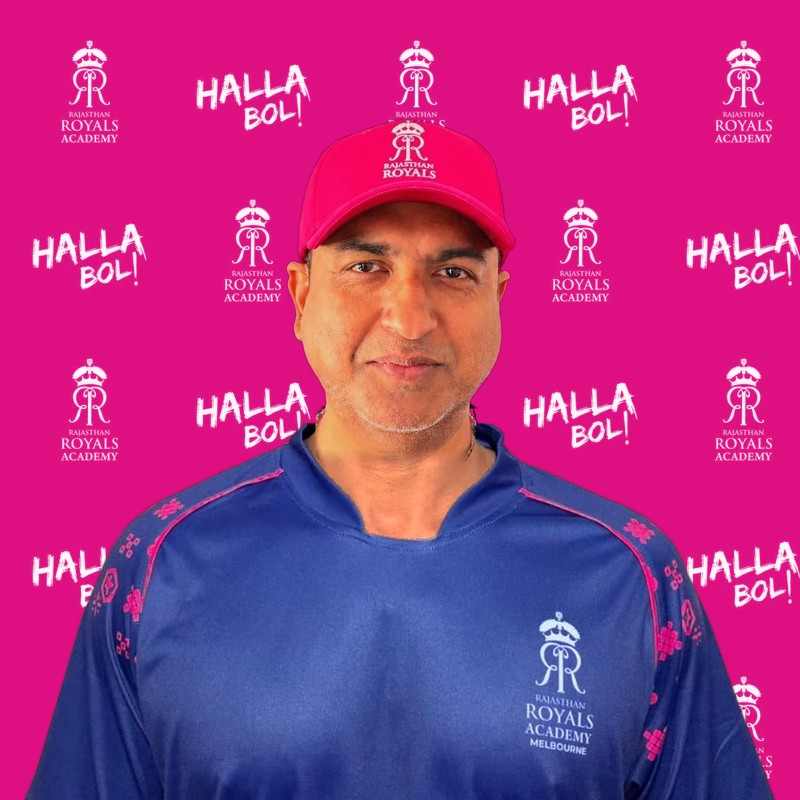
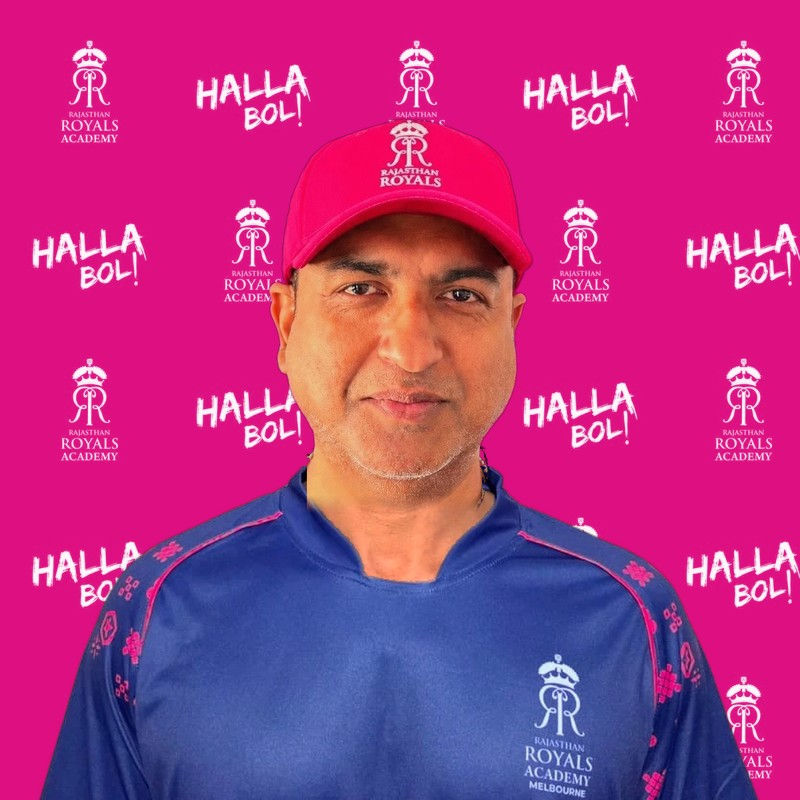
[Coaches] Sid sized to match the other coach photos; Sid on the home page team row
- Sid's photo re-sized so his head and shoulders match the other coaches
  (head width and height measured against all of them).
- Home page 'Our coaching team': Sid added after Alex Thornhill; Mihiraj uses
  the matching HALLA BOL! photo so the row is uniform.

Claude-Session: https://claude.ai/code/session_01LFFLZ7nuYUnqb3vFVCGv7a

diff --git a/src/components/home-v2/homeV2Data.js b/src/components/home-v2/homeV2Data.js
@@ -57,9 +57,10 @@ export const LEADERS = [
 // them; no photo yet = initials. Each links to /coaches.
 export const TEAM = [
     { name: 'Alex Thornhill', line: 'Cranbourne North · South-East Manager', img: '/assets/coaches/alex-thornhill.jpg' },
+    { name: 'Siddhartha Banerjee', line: 'Pace bowling and talent development', img: '/assets/coaches/siddhartha-banerjee-halla.jpg', pos: '50% 22%' }, // Andy, 23 Nov 2026
     { name: 'Ikroop Dhanoa', line: 'Leg spin, batting and T20 cricket', img: '/assets/coaches/ikroop-dhanoa-halla.jpg', pos: '50% 22%' },
     { name: 'Ritin Raman', line: 'Wicketkeeping and top-order batting', img: '/assets/coaches/ritin-raman-halla.jpg', pos: '50% 22%' },
-    { name: 'Mihiraj Jayasekara', line: 'Batting', img: '/assets/coaches/mihiraj-jayasekara.jpg', pos: '50% 22%' },
+    { name: 'Mihiraj Jayasekara', line: 'Batting', img: '/assets/coaches/mihiraj-jayasekara-halla.jpg', pos: '50% 22%' },
     { name: 'Jinang Shah', line: 'Junior Royals Program Coach', img: '/assets/coaches/jinang-shah-halla.jpg', pos: '50% 15%' },
     { name: 'Kavya Khatri', line: 'Junior Royals · Performance Squads', img: null },
 ];
